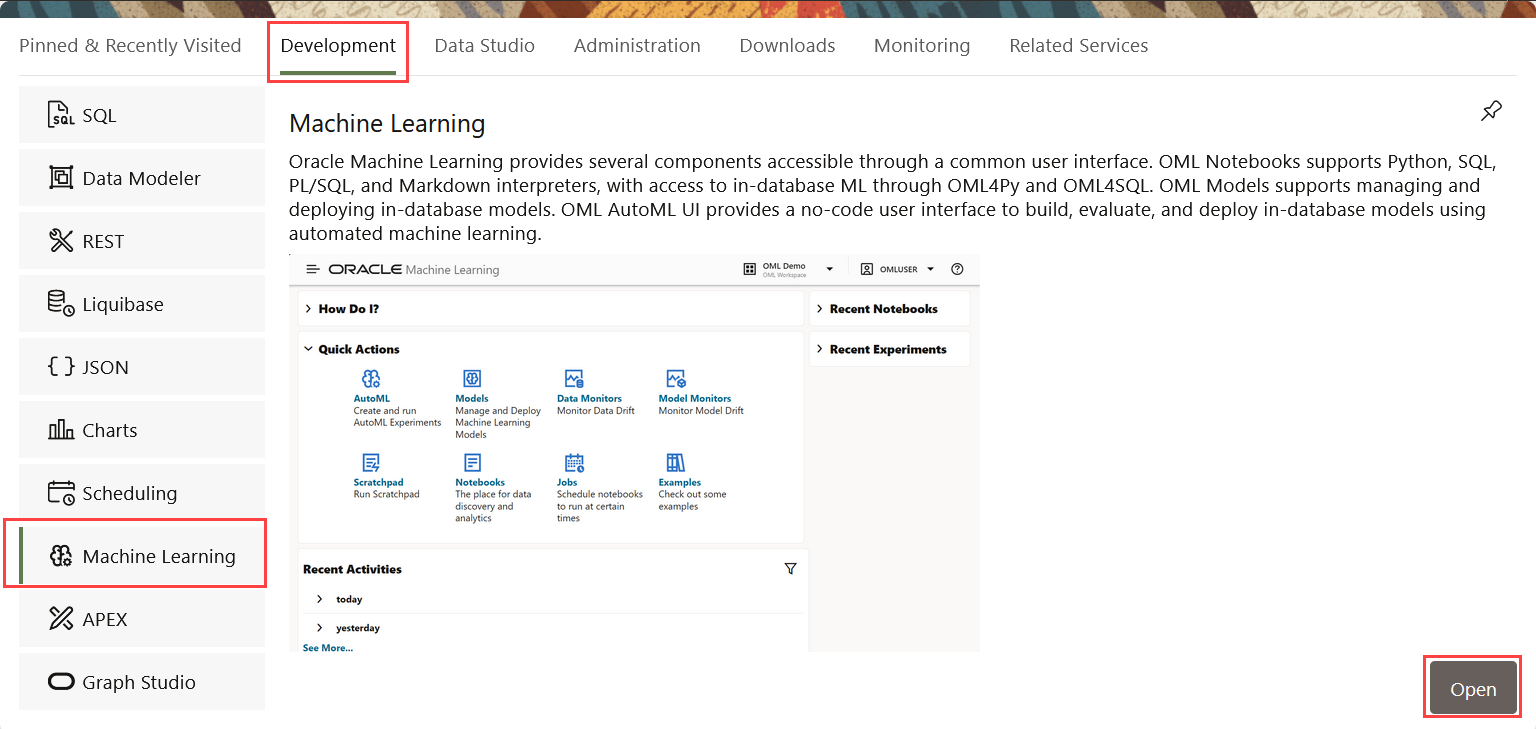
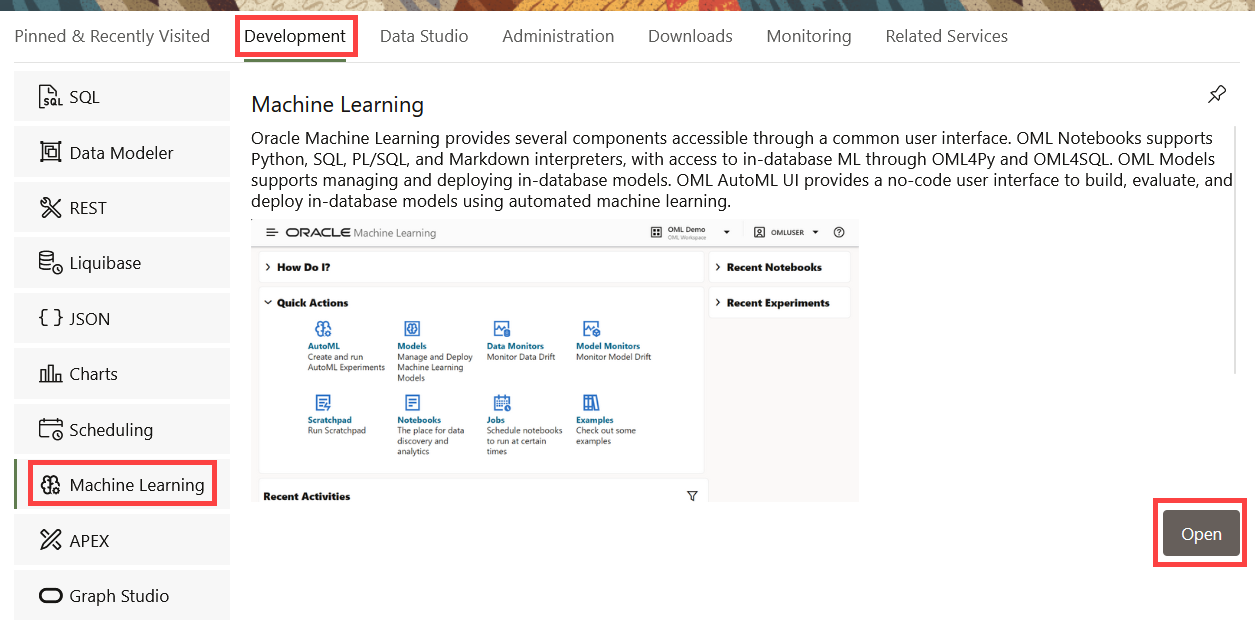
Screenshots added to show Redwood themed UI

diff --git a/building-blocks/tasks/oml/sign-into-oml.md b/building-blocks/tasks/oml/sign-into-oml.md
@@ -33,13 +33,13 @@ A notebook is a web-based interface for data analysis, data discovery, data visu
 
 To access the URL for the Oracle Machine Learning sign in page directly from the ADB Console Tool configuration tab:
 
-1. Go to your Autonomous Database details page and click **Tool cofiguration**. 
+1. Go to your Autonomous Database details page and click **Tool configuration**. 
 
 	![ADB console Tool configuration tab](images/adb-console-tool.png)
 
 2. Go to the **Oracle Machine Learning user interface** section and click **Copy.** Paste the URL on the browser to sign into Oracle Machine Learning user interface.
 
-	![OML URL in ADB Tool configuration tab](images/oml-ui-url-toolconfig.png)
+	![OML URL in ADB Tool configuration tab](images/oml-ui-url-toolconfig-rw.png)
 
 This completes the task of signing into Oracle Machine Learning user interface.
 
